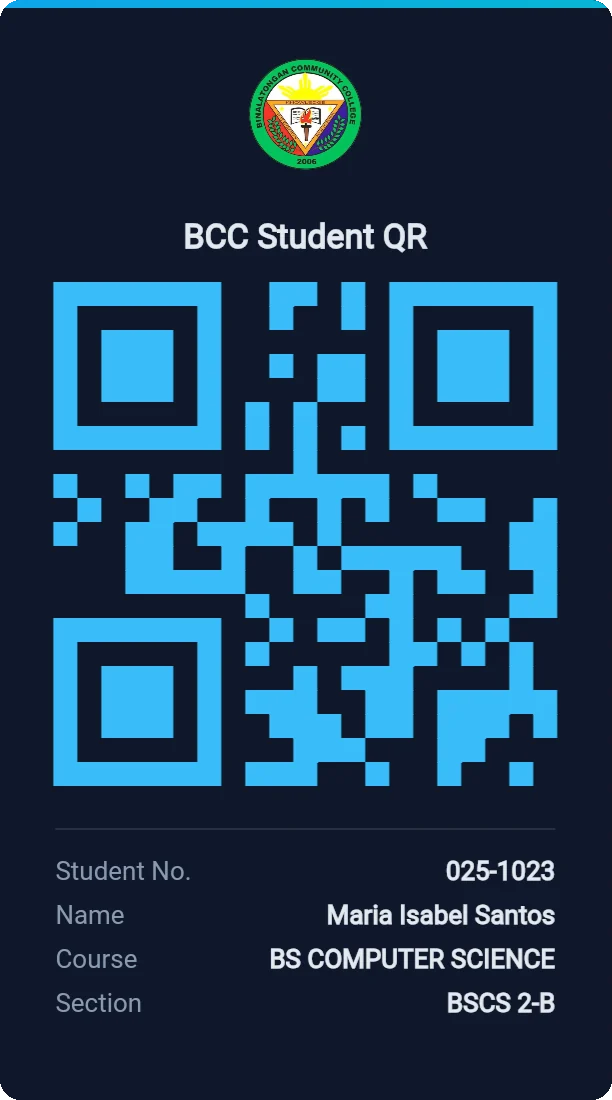
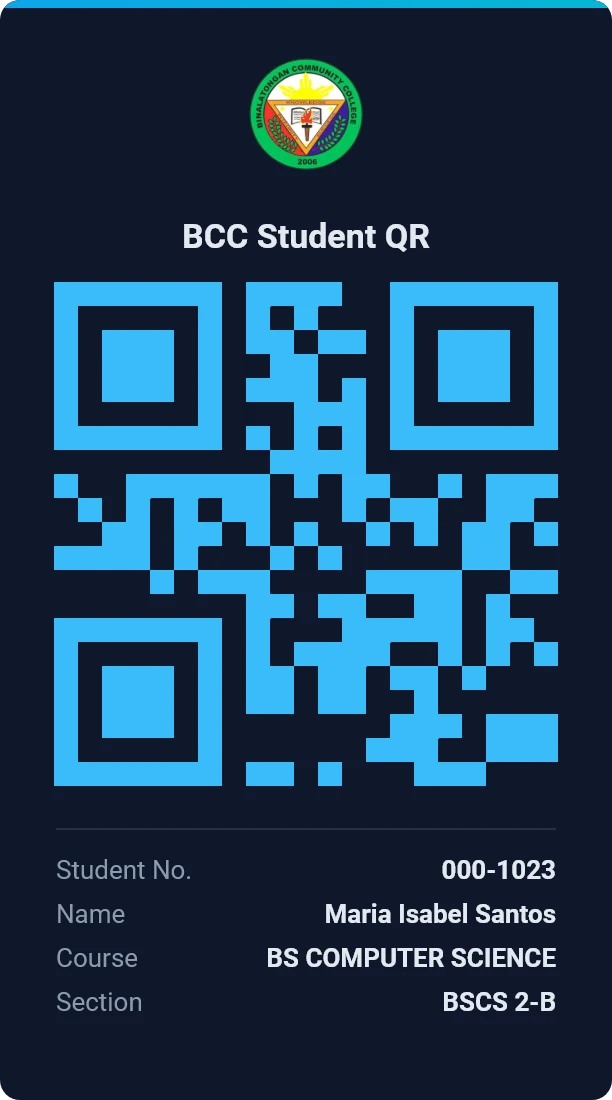
now

diff --git a/bccsasqr-mobile/bccsasqr_app/test/scanner_controller_test.dart b/bccsasqr-mobile/bccsasqr_app/test/scanner_controller_test.dart
@@ -8,7 +8,7 @@ import 'package:flutter_test/flutter_test.dart';
 
 const _user = ScannerUser(
   id: 4,
-  name: 'Francis L. Crisostomo',
+  name: 'Paolo R. Mendoza',
   email: 'francis@example.test',
   role: 'instructor',
 );
@@ -16,8 +16,8 @@ const _user = ScannerUser(
 const _elec2 = ScanSubject(code: 'ELEC2', name: 'Multimedia Technologies');
 
 ScanRecord _record({
-  String number = '025-802',
-  String name = 'GARCIA, MICAELLA JANE V.',
+  String number = '000-802',
+  String name = 'VILLAR, CARMINA JOY P.',
   bool late = false,
   bool photoMissing = false,
 }) => ScanRecord(
@@ -215,7 +215,7 @@ void main() {
 
     test('signing out forgets everything', () async {
       await ready();
-      await controller.onCodeScanned('025-802');
+      await controller.onCodeScanned('000-802');
       await controller.signOut();
 
       expect(repo.signedOut, isTrue);
@@ -278,35 +278,35 @@ void main() {
   group('scanning', () {
     test('a recorded scan shows, lists and says the name', () async {
       await ready();
-      await controller.onCodeScanned('025-802');
+      await controller.onCodeScanned('000-802');
 
-      expect(repo.scanned, ['025-802']);
-      expect(controller.lastRecord?.name, 'GARCIA, MICAELLA JANE V.');
-      expect(controller.attendance.first.studentNumber, '025-802');
+      expect(repo.scanned, ['000-802']);
+      expect(controller.lastRecord?.name, 'VILLAR, CARMINA JOY P.');
+      expect(controller.attendance.first.studentNumber, '000-802');
       expect(controller.status.tone, ScanTone.success);
       expect(
         controller.status.text,
-        '✓ GARCIA, MICAELLA JANE V. - Multimedia Technologies',
+        '✓ VILLAR, CARMINA JOY P. - Multimedia Technologies',
       );
       // Said as a name, not spelled out as capitals.
-      expect(speech.said.last, 'Micaella Jane Garcia, recorded.');
+      expect(speech.said.last, 'Carmina Joy Villar, recorded.');
       expect(feedback.played.last, ScanTone.success);
     });
 
     test('a late scan says so', () async {
       await ready();
       repo.scanAnswer = _record(late: true);
-      await controller.onCodeScanned('025-802');
+      await controller.onCodeScanned('000-802');
 
       expect(controller.status.tone, ScanTone.warning);
       expect(controller.status.text, endsWith('— LATE'));
-      expect(speech.said.last, 'Micaella Jane Garcia, recorded late.');
+      expect(speech.said.last, 'Carmina Joy Villar, recorded late.');
     });
 
     test('a scan with no photo on file warns in amber', () async {
       await ready();
       repo.scanAnswer = _record(photoMissing: true);
-      await controller.onCodeScanned('025-802');
+      await controller.onCodeScanned('000-802');
 
       expect(controller.status.tone, ScanTone.warning);
       expect(controller.status.text, contains('identity not verified'));
@@ -314,11 +314,11 @@ void main() {
 
     test('a QR held in view is recorded once', () async {
       await ready();
-      await controller.onCodeScanned('025-802');
+      await controller.onCodeScanned('000-802');
       now = now.add(const Duration(milliseconds: 700));
-      await controller.onCodeScanned('025-802');
+      await controller.onCodeScanned('000-802');
       now = now.add(const Duration(milliseconds: 700));
-      await controller.onCodeScanned('025-802');
+      await controller.onCodeScanned('000-802');
 
       expect(repo.scanned, hasLength(1));
     });
@@ -326,7 +326,7 @@ void main() {
     test('a QR kept in view is checked again, and answered "already '
         'marked" — not met with silence', () async {
       await ready();
-      await controller.onCodeScanned('025-802');
+      await controller.onCodeScanned('000-802');
       repo.scanAnswer = const ScannerException(
         'Already marked today.',
         code: 'already_marked',
@@ -334,26 +334,26 @@ void main() {
       // The camera reads a code in view about every 0.7 s.
       for (var i = 0; i < 4; i++) {
         now = now.add(const Duration(milliseconds: 700));
-        await controller.onCodeScanned('025-802');
+        await controller.onCodeScanned('000-802');
       }
 
       expect(repo.scanned, hasLength(2));
-      expect(controller.status.text, '⚠ Already marked: 025-802');
+      expect(controller.status.text, '⚠ Already marked: 000-802');
       expect(speech.said.last, ScannerStrings.sayAlreadyMarked);
     });
 
     test('the same QR shown again later is checked again', () async {
       await ready();
-      await controller.onCodeScanned('025-802');
+      await controller.onCodeScanned('000-802');
       now = now.add(const Duration(seconds: 4));
       repo.scanAnswer = const ScannerException(
         'Already marked today.',
         code: 'already_marked',
       );
-      await controller.onCodeScanned('025-802');
+      await controller.onCodeScanned('000-802');
 
       expect(repo.scanned, hasLength(2));
-      expect(controller.status.text, '⚠ Already marked: 025-802');
+      expect(controller.status.text, '⚠ Already marked: 000-802');
       expect(speech.said.last, ScannerStrings.sayAlreadyMarked);
       expect(feedback.played.last, ScanTone.warning);
     });
@@ -421,7 +421,7 @@ void main() {
         'Your sign-in has expired.',
         code: 'unauthenticated',
       );
-      await controller.onCodeScanned('025-802');
+      await controller.onCodeScanned('000-802');
 
       expect(controller.session, ScannerSession.signedOut);
       expect(controller.sessionMessage, ScannerStrings.sessionExpired);
@@ -430,7 +430,7 @@ void main() {
     test('no signal: says so without a dialog', () async {
       await ready();
       repo.scanAnswer = const ScannerException('offline', code: 'network');
-      await controller.onCodeScanned('025-802');
+      await controller.onCodeScanned('000-802');
       await _delivered();
 
       expect(controller.status.text, '✗ Network error');
@@ -441,7 +441,7 @@ void main() {
       controller.dispose();
       controller = build(resultHold: const Duration(milliseconds: 10));
       await ready();
-      await controller.onCodeScanned('025-802');
+      await controller.onCodeScanned('000-802');
       expect(controller.lastRecord, isNotNull);
 
       await Future<void>.delayed(const Duration(milliseconds: 30));

diff --git a/bccsasqr-mobile/bccsasqr_app/test/tracker_controller_test.dart b/bccsasqr-mobile/bccsasqr_app/test/tracker_controller_test.dart
@@ -10,7 +10,7 @@ import 'package:bccsasqr_app/services/tracker_repository.dart';
 import 'package:flutter_test/flutter_test.dart';
 
 final _history = AttendanceHistory(
-  studentNumber: '025-1023',
+  studentNumber: '000-1023',
   fullName: 'Maria Isabel Santos',
   course: 'BSCS',
   section: '2-B',
@@ -48,7 +48,7 @@ const _neverScanned = AttendanceHistory(
 
 class _FakeTracker implements TrackerRepository {
   _FakeTracker([Map<String, AttendanceHistory>? records])
-    : records = records ?? {'025-1023': _history, '023-770': _neverScanned};
+    : records = records ?? {'000-1023': _history, '023-770': _neverScanned};
 
   final Map<String, AttendanceHistory> records;
   bool offline = false;
@@ -104,7 +104,7 @@ void main() {
     final repo = _FakeTracker();
     final c = build(repo);
 
-    c.onStudentNumberChanged('025-1023');
+    c.onStudentNumberChanged('000-1023');
     expect(c.isSearching, isTrue);
     await settle();
     await settle();
@@ -155,7 +155,7 @@ void main() {
     final repo = _FakeTracker()..offline = true;
     final c = build(repo);
 
-    c.onStudentNumberChanged('025-1023');
+    c.onStudentNumberChanged('000-1023');
     await settle();
     await settle();
     expect(c.status, TrackerStatus.failed);
@@ -172,7 +172,7 @@ void main() {
     final repo = _FakeTracker()..gate = Completer<void>();
     final c = build(repo);
 
-    c.onStudentNumberChanged('025-1023');
+    c.onStudentNumberChanged('000-1023');
     await settle();
     // The student clears the field while the first search is in flight.
     c.onStudentNumberChanged('');
@@ -188,7 +188,7 @@ void main() {
     final speech = _RecordingSpeech();
     final c = build(_FakeTracker(), speech: speech);
 
-    c.onStudentNumberChanged('025-1023');
+    c.onStudentNumberChanged('000-1023');
     await settle();
     await settle();
 

diff --git a/bccsasqr-mobile/bccsasqr_app/test/tracker_page_test.dart b/bccsasqr-mobile/bccsasqr_app/test/tracker_page_test.dart
@@ -22,9 +22,9 @@ class _StubTracker implements TrackerRepository {
   @override
   Future<AttendanceHistory?> fetchAttendance(StudentNumber number) async {
     switch (number.value) {
-      case '025-1023':
+      case '000-1023':
         return AttendanceHistory(
-          studentNumber: '025-1023',
+          studentNumber: '000-1023',
           fullName: 'Maria Isabel Santos',
           course: 'BSCS',
           section: '2-B',
@@ -150,7 +150,7 @@ void main() {
     tester,
   ) async {
     await openTracker(tester);
-    await search(tester, '0251023');
+    await search(tester, '0001023');
 
     expect(find.text('Maria Isabel Santos'), findsOneWidget);
     expect(find.text(TrackerStrings.loaded), findsOneWidget);
@@ -173,7 +173,7 @@ void main() {
 
   testWidgets('a long subject folds after five days', (tester) async {
     await openTracker(tester);
-    await search(tester, '0251023');
+    await search(tester, '0001023');
 
     // Sep 1 and 2 of OOP are folded away; Sep 2 of Discrete shows.
     expect(find.text('Sep 01, 2026'), findsNothing);
@@ -222,7 +222,7 @@ void main() {
     view.physicalSize = const Size(320, 3000);
 
     await openTracker(tester);
-    await search(tester, '0251023');
+    await search(tester, '0001023');
 
     expect(tester.takeException(), isNull);
     expect(find.text('Maria Isabel Santos'), findsOneWidget);
@@ -230,7 +230,7 @@ void main() {
 
   testWidgets('clearing the field brings the placeholder back', (tester) async {
     await openTracker(tester);
-    await search(tester, '0251023');
+    await search(tester, '0001023');
     await search(tester, '');
 
     expect(find.text('Maria Isabel Santos'), findsNothing);

diff --git a/bccsasqr-mobile/bccsasqr_app/test/http_scanner_repository_test.dart b/bccsasqr-mobile/bccsasqr_app/test/http_scanner_repository_test.dart
@@ -25,7 +25,7 @@ String fail(
 
 const _user = {
   'id': 4,
-  'name': 'Francis L. Crisostomo',
+  'name': 'Paolo R. Mendoza',
   'email': 'francis@example.test',
   'role': 'instructor',
   'avatar_url': null,
@@ -57,7 +57,7 @@ void main() {
     });
 
     final user = await r.signIn(email: ' francis@example.test ', password: 'x');
-    expect(user.name, 'Francis L. Crisostomo');
+    expect(user.name, 'Paolo R. Mendoza');
     expect(await tokens.read(), _token);
 
     final body = jsonDecode(seen.first.body) as Map<String, dynamic>;
@@ -107,8 +107,8 @@ void main() {
       (req) async => json(
         ok({
           'record': {
-            'student_no': '025-802',
-            'name': 'GARCIA, MICAELLA JANE V.',
+            'student_no': '000-802',
+            'name': 'VILLAR, CARMINA JOY P.',
             'course': 'BSIT',
             'section': '2G',
             'subject': 'Multimedia Technologies',
@@ -124,10 +124,10 @@ void main() {
     );
 
     final record = await r.recordScan(
-      studentNumber: '025-802',
+      studentNumber: '000-802',
       subjectCode: 'ELEC2',
     );
-    expect(record.name, 'GARCIA, MICAELLA JANE V.');
+    expect(record.name, 'VILLAR, CARMINA JOY P.');
     expect(record.late, isTrue);
     expect(record.photoUrl, endsWith('1.jpg'));
     expect(record.courseAndSection, 'BSIT — 2G');

diff --git a/bccsasqr-mobile/bccsasqr_app/test/student_number_test.dart b/bccsasqr-mobile/bccsasqr_app/test/student_number_test.dart
@@ -5,7 +5,7 @@ void main() {
   group('StudentNumber.tryParse', () {
     test('accepts three- and four-digit registration numbers', () {
       expect(StudentNumber.tryParse('019-464')?.value, '019-464');
-      expect(StudentNumber.tryParse('025-1023')?.value, '025-1023');
+      expect(StudentNumber.tryParse('000-1023')?.value, '000-1023');
     });
 
     test('trims surrounding whitespace', () {
@@ -50,7 +50,7 @@ void main() {
     });
 
     test('caps the registration number at four digits', () {
-      expect(format('025102399').text, '025-1023');
+      expect(format('000102399').text, '000-1023');
     });
 
     test('leaves a short prefix unpunctuated', () {

diff --git a/bccsasqr-mobile/bccsasqr_app/lib/views/scanner/widgets/scan_result_card.dart b/bccsasqr-mobile/bccsasqr_app/lib/views/scanner/widgets/scan_result_card.dart
@@ -144,7 +144,7 @@ class StudentAvatar extends StatelessWidget {
   final Color? badge;
   final double size;
 
-  /// "GARCIA, MICAELLA JANE V." → "GM", as the web card does it.
+  /// "VILLAR, CARMINA JOY P." → "VC", as the web card does it.
   static String initialsOf(String name) {
     final words = name.trim().split(RegExp(r'\s+')).where((w) => w.isNotEmpty);
     final initials = words.take(2).map((w) => w[0].toUpperCase()).join();

diff --git a/QRgenerator/js/script.js b/QRgenerator/js/script.js
@@ -44,7 +44,7 @@ function generateQR() {
             html: `
                 <div style="text-align: left; line-height: 1.6;">
                     <b>Use format:</b> YEAR-NUMBER<br>
-                    (e.g., 019-464 or 025-1023)<br><br>
+                    (e.g., 019-464 or 000-1023)<br><br>
                     <b>Invalid examples:</b><br>
                     • 2025/001<br>
                     • 25-001<br>

diff --git a/QRgenerator/js/scriptv2.js b/QRgenerator/js/scriptv2.js
@@ -35,7 +35,7 @@ function generateQR() {
             html: `
                 <div style="text-align: left; line-height: 1.6;">
                     <b>Use format:</b> YEAR-NUMBER<br>
-                    (e.g., 019-464 or 025-1023)<br><br>
+                    (e.g., 019-464 or 000-1023)<br><br>
                     <b>Invalid examples:</b><br>
                     • 2025/001<br>
                     • 25-001<br>

diff --git a/bccsasqr-mobile/bccsasqr_app/lib/core/constants/app_strings.dart b/bccsasqr-mobile/bccsasqr_app/lib/core/constants/app_strings.dart
@@ -54,7 +54,7 @@ abstract final class AppStrings {
 
   static const String studentNumberLabel = 'Student Number';
   static const String studentNumberFormat =
-      'Format: YEAR-Registration No. — e.g. 019-464 or 025-1023';
+      'Format: YEAR-Registration No. — e.g. 019-464 or 000-1023';
   static const String studentNumberHint = '019-464';
 
   static const String fieldName = 'NAME';

diff --git a/bccsasqr-mobile/bccsasqr_app/lib/services/tracker_repository.dart b/bccsasqr-mobile/bccsasqr_app/lib/services/tracker_repository.dart
@@ -59,8 +59,8 @@ class InMemoryTrackerRepository implements TrackerRepository {
         ),
       ],
     ),
-    '025-1023': AttendanceHistory(
-      studentNumber: '025-1023',
+    '000-1023': AttendanceHistory(
+      studentNumber: '000-1023',
       fullName: 'Maria Isabel Santos',
       course: 'BS Computer Science',
       section: 'BSCS 2-B',

diff --git a/bccsasqr-mobile/bccsasqr_app/test/qr_generator_controller_test.dart b/bccsasqr-mobile/bccsasqr_app/test/qr_generator_controller_test.dart
@@ -495,7 +495,7 @@ void main() {
     });
 
     test('a four-digit registration number', () {
-      expect(forSpeech('Try 025-1023.'), 'Try 0 2 5, dash, 1 0 2 3.');
+      expect(forSpeech('Try 000-1023.'), 'Try 0 0 0, dash, 1 0 2 3.');
     });
 
     test('technical detail in trailing brackets is not read', () {

diff --git a/bccsasqr-mobile/bccsasqr_app/lib/services/student_repository.dart b/bccsasqr-mobile/bccsasqr_app/lib/services/student_repository.dart
@@ -64,7 +64,7 @@ class InMemoryStudentRepository implements StudentRepository {
       'section': 'BSIT 4-A',
     },
     {
-      'student_number': '025-1023',
+      'student_number': '000-1023',
       'full_name': 'Maria Isabel Santos',
       'course': 'BS Computer Science',
       'section': 'BSCS 2-B',
